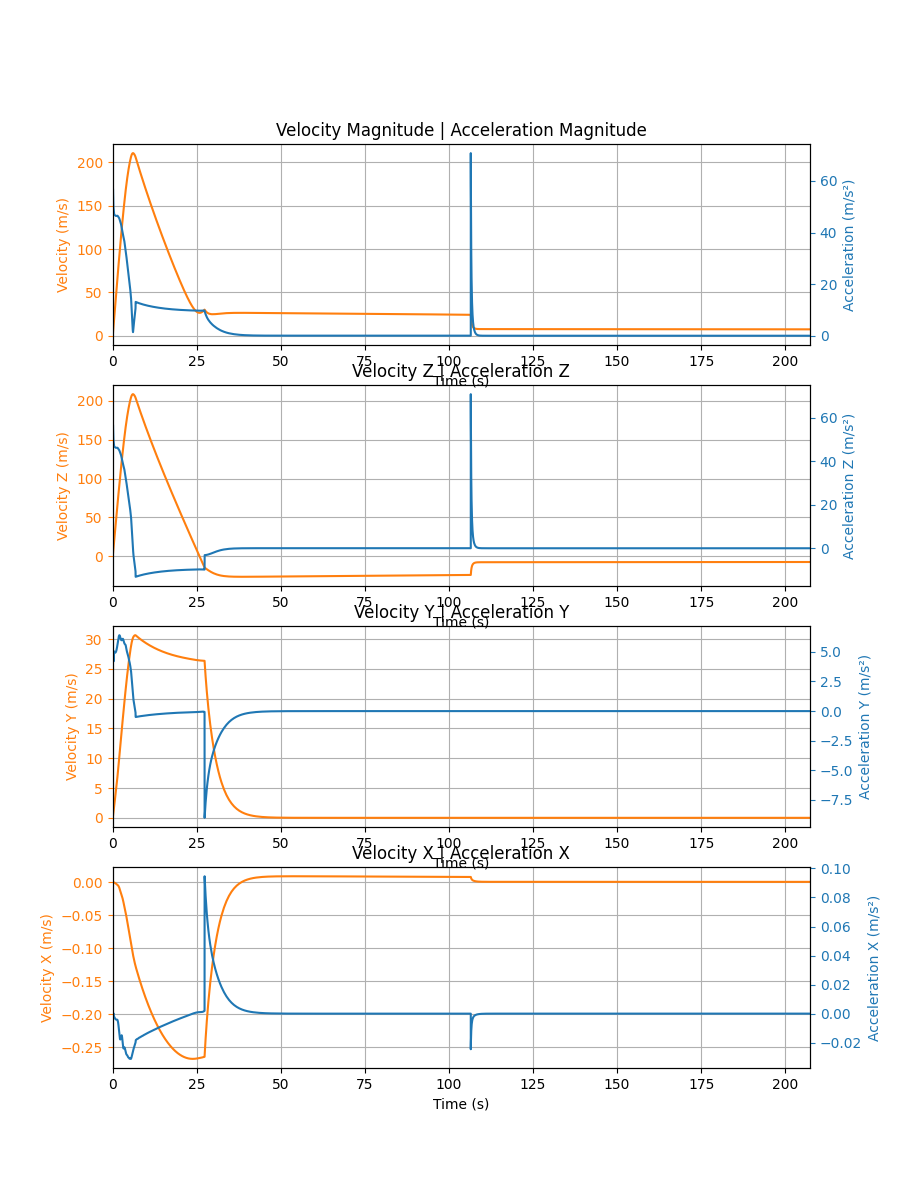
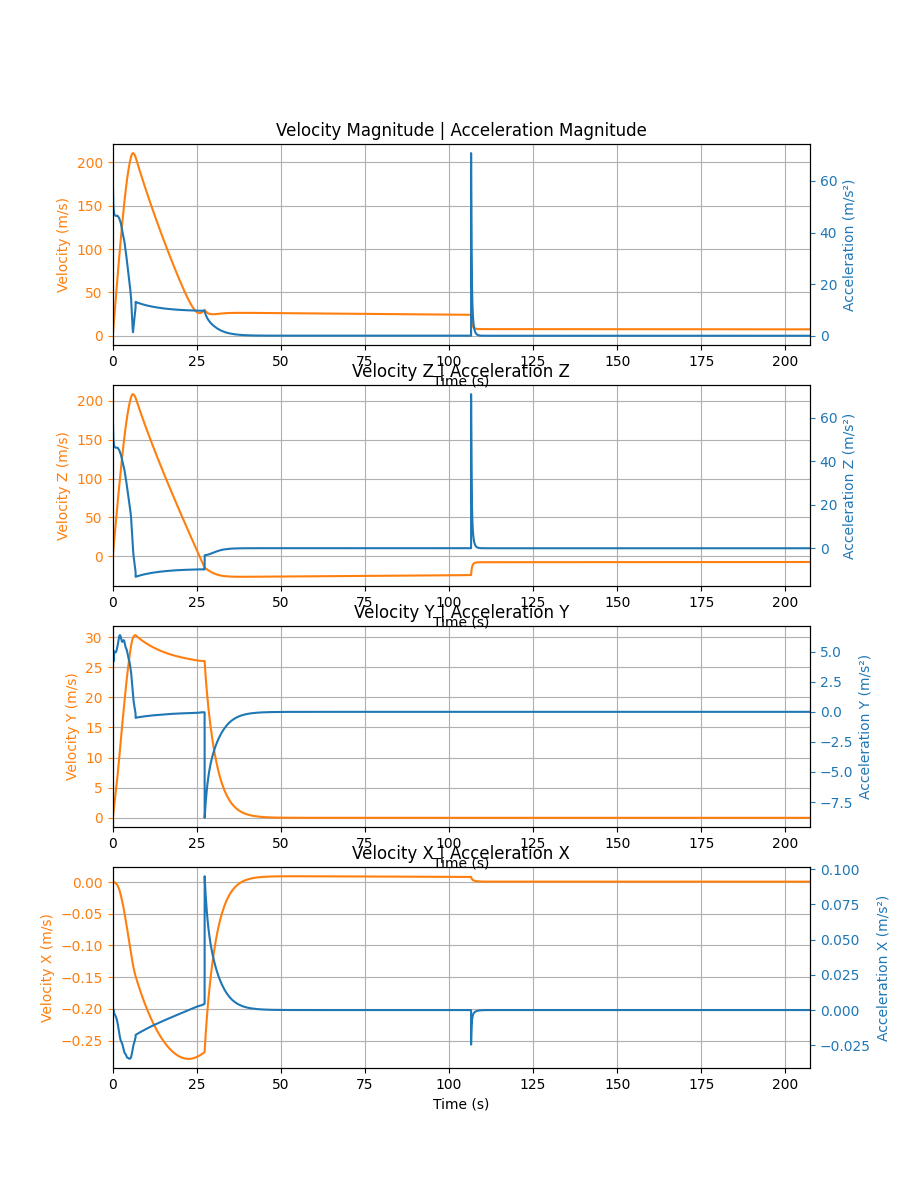
Added the parachute correct data

diff --git a/load_flight_from_json.py b/load_flight_from_json.py
@@ -68,7 +68,6 @@ def load_flight_from_json(config_path: str):
 
     # Rail buttons
     rb = rocket_data["rail_buttons"]
-    
     rocket.set_rail_buttons(
         upper_button_position=rb["upper_button_position"],
         lower_button_position=rb["lower_button_position"],
@@ -91,8 +90,8 @@ def load_flight_from_json(config_path: str):
         tip_chord=fins["tip_chord"],
         span=fins["span"],
         position=fins["position"],
-        cant_angle=fins["cant_angle"],
-        airfoil=(path + fins["airfoil"], "radians"),
+        cant_angle=fins["cant_angle"]
+        # airfoil=(path + fins["airfoil"], "radians"),
     )
 
     # Tail
@@ -111,7 +110,7 @@ def load_flight_from_json(config_path: str):
         
             chute_data["name"],
         
-            cd_s=chute_data["cd_s"],
+            cd_s= int(chute_data["drag_coefficiente"]) * int(chute_data["area"]),
         
             trigger=chute_data["trigger"],
         

diff --git a/main.py b/main.py
@@ -16,5 +16,6 @@ def main():
             file.write(f"{k}, {v}\n")
             
     #flight_info.all()
+    rocket.draw()
 
 main()
